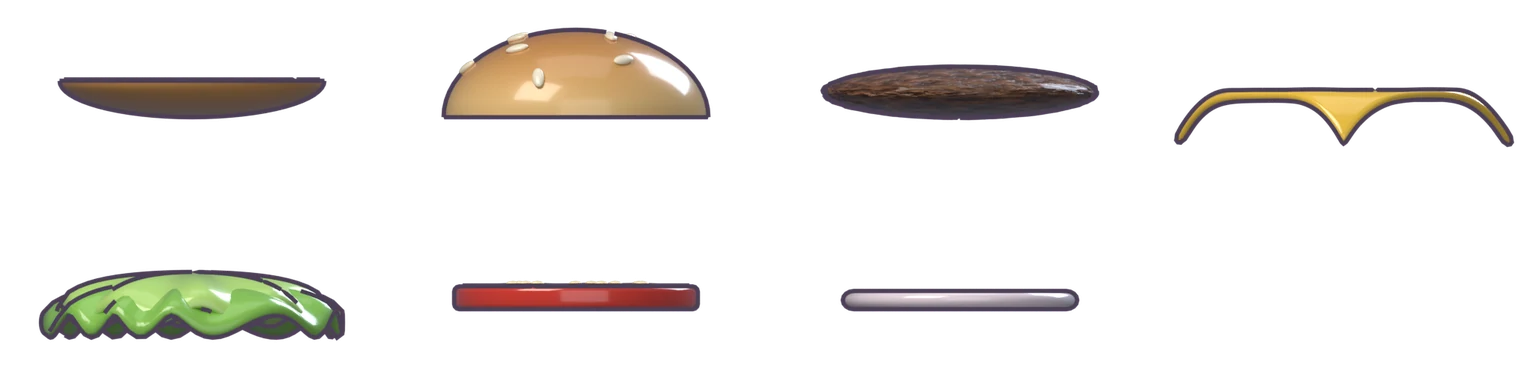
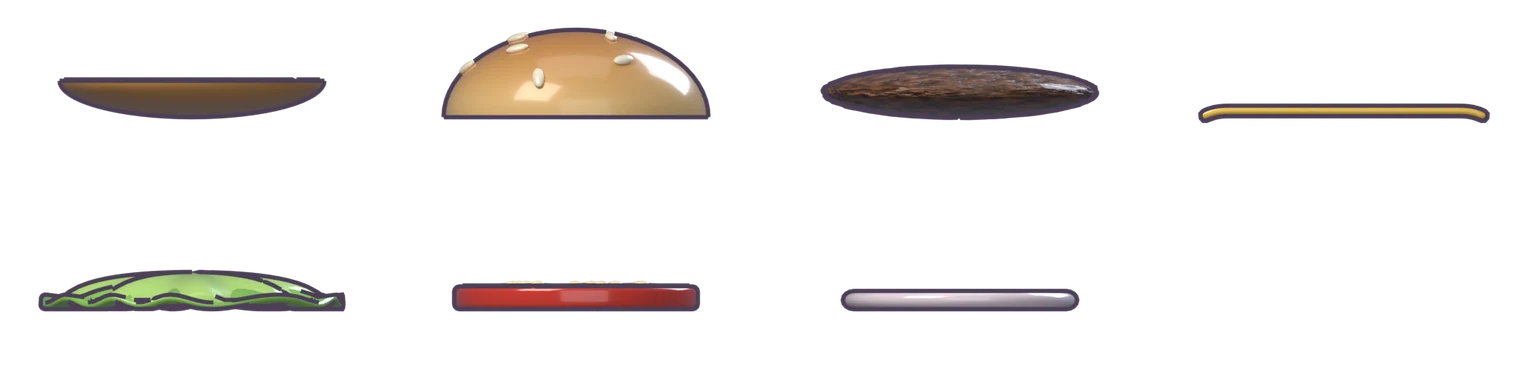
fix(burger): 레퍼런스 옆모습 — 치즈는 가운데 뾰족 늘어짐 없는 얇은 한 장, 양상추는 아래층 위에 평평히 얹혀 치즈를 뚫고 비치지 않게(옆모습 전용 Blender 모델), 아래층부터 그대로 포개기

Changed region(s): [[0.0, 0.75, 0.25, 0.9062], [0.75, 0.2188, 1.0, 0.375]]

diff --git a/public/games/burger/index.html b/public/games/burger/index.html
@@ -1886,8 +1886,8 @@ function sideLayer(id, cx, y, bw, t){
      (scripts/blender/mascot_burger.py -- foodside → scripts/build_arcade_mascots.py burger_side).
    th = 재료 실제 두께(셀 높이 비율) — 바닥 중심을 맞춰 아래→위로 th 만큼씩 올린다. 양상추 프릴·치즈 모서리는 아래층 옆면으로 늘어진다(ext.dn).
    이미지 로드 전·실패 시에는 아래 sideLayer 손그림 띠로 그린다. */
-const SIDE_META = {"cols":4,"order":["bunBottom","bunTop","patty","cheese","lettuce","tomato","onion"],"o":[0.5,0.6103],"ux":0.3448,"th":{"bunBottom":0.1894,"bunTop":0.0,"patty":0.2604,"cheese":0.142,"lettuce":0.1894,"tomato":0.1184,"onion":0.0947},"ext":{"bunBottom":[0.2119,0.0147],"bunTop":[0.4697,0.0147],"patty":[0.2783,0.0186],"cheese":[0.1572,0.1592],"lettuce":[0.208,0.167],"tomato":[0.1494,0.0147],"onion":[0.1103,0.0147]}};
-const SIDE_REACH = 1.3;   /* 가장 넓은 재료(치즈 모서리)의 반폭 ÷ 재료 반지름 */
+const SIDE_META = {"cols":4,"order":["bunBottom","bunTop","patty","cheese","lettuce","tomato","onion"],"o":[0.5,0.6103],"ux":0.3448,"th":{"bunBottom":0.1894,"bunTop":0.0,"patty":0.2604,"cheese":0.0586,"lettuce":0.1894,"tomato":0.1184,"onion":0.0947},"ext":{"bunBottom":[0.2119,0.0147],"bunTop":[0.4697,0.0147],"patty":[0.2783,0.0186],"cheese":[0.0752,0.0342],"lettuce":[0.208,0.0147],"tomato":[0.1494,0.0147],"onion":[0.1103,0.0147]},"hw":{"bunBottom":1.0195,"bunTop":1.0195,"patty":1.0592,"cheese":1.1045,"lettuce":1.1611,"tomato":0.9402,"onion":0.9062}};
+const SIDE_REACH = 1.17;  /* 가장 넓은 재료(양상추 프릴)의 반폭 ÷ 재료 반지름 */
 function drawSideStackImg(cx, topY, baseY, availW, fillings){
     const im = IMG.foodSide, M = SIDE_META;
     const cw = im.naturalWidth / M.cols, ch = im.naturalHeight / 2;
@@ -1914,9 +1914,10 @@ function drawSideStackImg(cx, topY, baseY, availW, fillings){
         if (i > 0 && i < ids.length - 1) centers.push(by - t / 2);
         by -= t;
     }
-    /* 위층부터 그린다 — 양상추 프릴·치즈 모서리가 아래로 늘어져 바로 아래의 얇은 층(패티·양파)을 덮으면 순서가 안 읽힌다.
-       아래층 몸통이 늘 앞에 오고, 늘어진 끝은 그 뒤 양옆으로만 비친다(재료 9개에서 실측). */
-    for (let i = ids.length - 1; i >= 0; i--){
+    /* 아래층부터 그대로 포갠다. 옆모습 전용 치즈(얇은 한 장)·양상추(바닥이 평평, 프릴은 위로)는 Blender 에서
+       아래층 윗면 밑으로 내려가지 않게 만들었다 — 운영자 2026-10-02: "치즈 가운데가 뾰족하게 두께를 차지",
+       "양상추가 치즈를 뚫고 아래에서 보인다" */
+    for (let i = 0; i < ids.length; i++){
         const j = M.order.indexOf(ids[i]);
         ctx.drawImage(im, (j % M.cols) * cw, Math.floor(j / M.cols) * ch, cw, ch, cx - M.o[0] * dw, at[i] - M.o[1] * dh, dw, dh);
     }

diff --git a/scripts/blender/mascot_burger.py b/scripts/blender/mascot_burger.py
@@ -356,6 +356,60 @@ def f_cheese():
     return yp._fin(o, cheese) and T
 
 
+def f_cheese_side():
+    """주문서 레퍼런스(정측면) 전용 치즈 — 운영자(2026-10-02): "치즈는 그냥 얇게. 가운데가 아래로 뾰족해 두께를 많이 차지해 보인다."
+    게임 스택용 f_cheese 는 45° 돌린 정사각이라 앞 모서리가 가운데로 흘러내린다(옆에서 보면 V). 여기선 축 정렬 정사각 한 장을
+    바닥 바로 위에 얹고, 좌우 모서리만 살짝 처지게 한다. 두께 = 장 두께뿐."""
+    th = 0.085
+    cheese = yp.mat('cheese', (1.0, 0.64, 0.06), rough=0.22, coat=0.9)
+    try:
+        b = cheese.node_tree.nodes["Principled BSDF"]
+        b.inputs["Subsurface Weight"].default_value = 0.15
+        b.inputs["Subsurface Radius"].default_value = (1.0, 0.6, 0.2)
+    except Exception:
+        pass
+    bpy.ops.mesh.primitive_grid_add(x_subdivisions=36, y_subdivisions=36, size=2.2, location=(0, 0, 0))
+    o = bpy.context.object
+    for v in o.data.vertices:
+        x, y = v.co.x, v.co.y
+        e = max(abs(x), abs(y))
+        droop = 1.4 * max(0.0, abs(x) - 0.9) ** 2 + 0.012 * math.sin(y * 9) * max(0.0, e - 0.8)
+        v.co = Vector((x, y, th - droop))
+    md = o.modifiers.new("sol", 'SOLIDIFY')
+    md.thickness = th * 0.9
+    md.offset = -1
+    sub = o.modifiers.new("sub", 'SUBSURF')
+    sub.levels = 1
+    sub.render_levels = 1
+    yp._fin(o, cheese)
+    return th
+
+
+def f_lettuce_side():
+    """주문서 레퍼런스(정측면) 전용 양상추 — 아래층 위에 얹힌 잎은 아래층 윗면 밑으로 못 내려간다(운영자 2026-10-02:
+    "치즈 위 양상추가 치즈를 뚫고 아래에서 보인다"). 게임 스택용 f_lettuce 의 모양·재질 그대로, 높이만 바닥(0) 위로 눌러 둔다 —
+    물결 프릴은 위로만 일렁인다."""
+    T = T_of(16)
+    g1 = yp.mat('lettuce', (0.28, 0.66, 0.1), rough=0.3, coat=0.7)
+    g2 = yp.mat('lettuce_hi', (0.52, 0.86, 0.22), rough=0.3, coat=0.7)
+    R = 1.14
+    floor = 0.05      # 시트 두께(0.05, 아래로 붙는 solidify)만큼 띄워 바닥면이 z=0 에 오게
+
+    def zf1(r, th):
+        u = r / R
+        z = T * 0.78 * (1 - u * u) ** 0.6 + 0.085 * u ** 2.5 * math.sin(11 * th + 1.7 * math.sin(3 * th)) - 0.1 * u ** 4
+        return max(floor + 0.03 * u ** 2.5 * (1 + math.sin(11 * th + 1.7 * math.sin(3 * th))), z)
+    polar_sheet(R, 16, 132, zf1, g1, thick=0.05)
+
+    def zf2(r, th):
+        u = r / (R * 0.9)
+        z = T * 0.95 * (1 - min(1, u) ** 2) ** 0.5 + 0.07 * u ** 2.5 * math.sin(9 * th + 0.8) - 0.06 * u ** 4 + 0.02
+        return max(floor + 0.02, z)
+    s = polar_sheet(R * 0.9, 14, 110, zf2, g2, thick=0.045)
+    s.rotation_euler = (0, 0, 0.5)
+    return T
+
+
 def f_lettuce():
     T = T_of(16)
     g1 = yp.mat('lettuce', (0.28, 0.66, 0.1), rough=0.3, coat=0.7)
@@ -440,7 +494,8 @@ FOODSIDE_H, FOODSIDE_TZ = 256, 0.16
 
 def render_food(name, side=False):
     sc = food_studio(0.0, FOODSIDE_H, FOODSIDE_TZ) if side else food_studio()
-    T = FOOD_FN[name]()
+    SIDE_FN = dict(cheese=f_cheese_side, lettuce=f_lettuce_side)
+    T = (SIDE_FN[name]() if (side and name in SIDE_FN) else FOOD_FN[name]())
     dd = os.path.join(OUT, "foodside" if side else "food")
     os.makedirs(dd, exist_ok=True)
     sc.render.filepath = os.path.join(dd, name + ".png")

diff --git a/scripts/build_arcade_mascots.py b/scripts/build_arcade_mascots.py
@@ -72,14 +72,16 @@ def burger_side():
     atlas(f, food, 4, 384, 192, os.path.join(dst, "food_side.webp"), q=88)
     fm = json.load(open(os.path.join(f, "meta.json"), encoding='utf-8'))
     o = fm['patty']['o']
-    ext = {}
+    ext, hw = {}, {}   # hw = 좌우 반폭(재료 반지름 단위) — 위층이 아래층 폭 안쪽에선 아래층 윗면 밑으로 못 내려가게 자르는 기준
     for k in food:          # 셀 높이 비율: 바닥 기준 위로 솟은 끝(up)·아래로 처진 끝(dn) — 칸 맞춤용
         im = Image.open(os.path.join(f, k + ".png")).convert("RGBA")
         bb = im.getchannel("A").point(lambda v: 255 if v > 8 else 0).getbbox()
         H = im.size[1]
+        W = im.size[0]
+        hw[k] = r4(max(fm[k]['o'][0] - bb[0] / W, bb[2] / W - fm[k]['o'][0]) / fm[k]['ux'])
         ext[k] = [r4(fm[k]['o'][1] - bb[1] / H), r4(bb[3] / H - fm[k]['o'][1])]
     out = dict(cols=4, order=food, o=r4(o), ux=r4(fm['patty']['ux']),
-               th={k: r4(fm[k]['o'][1] - fm[k]['top'][1]) for k in food}, ext=ext)
+               th={k: r4(fm[k]['o'][1] - fm[k]['top'][1]) for k in food}, ext=ext, hw=hw)
     print(json.dumps(out, separators=(',', ':')))
 
 
